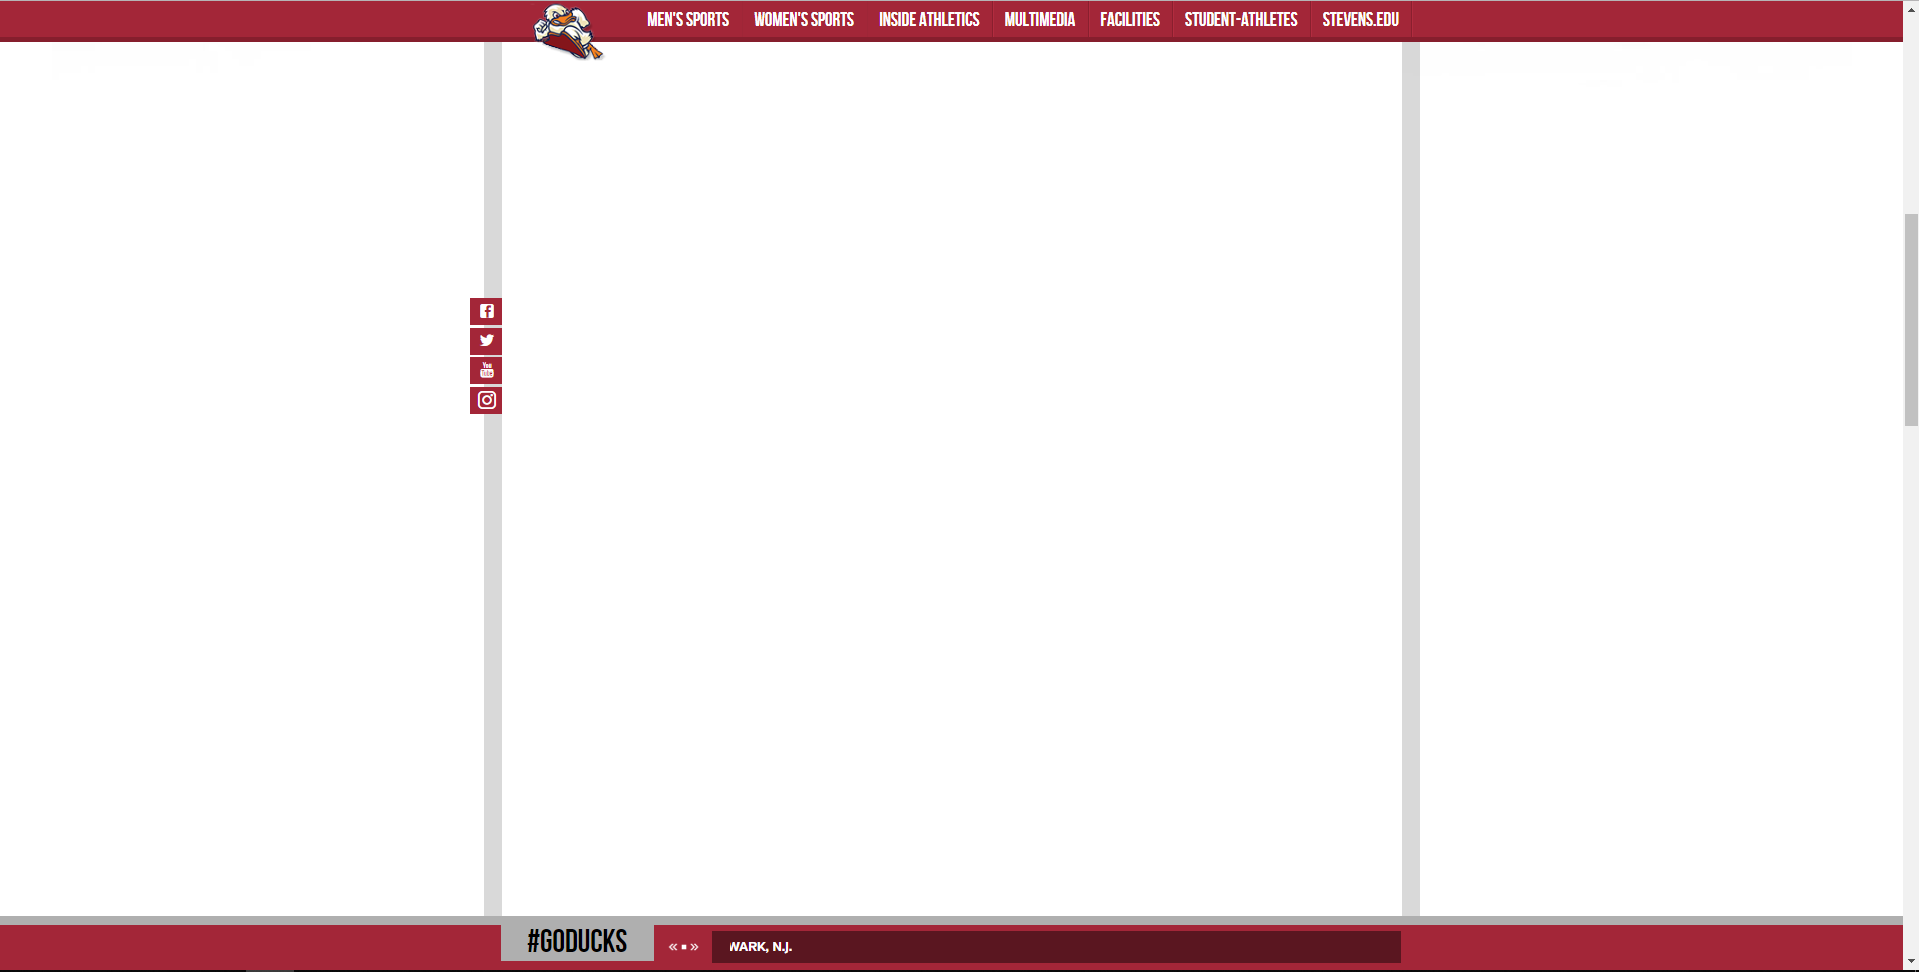
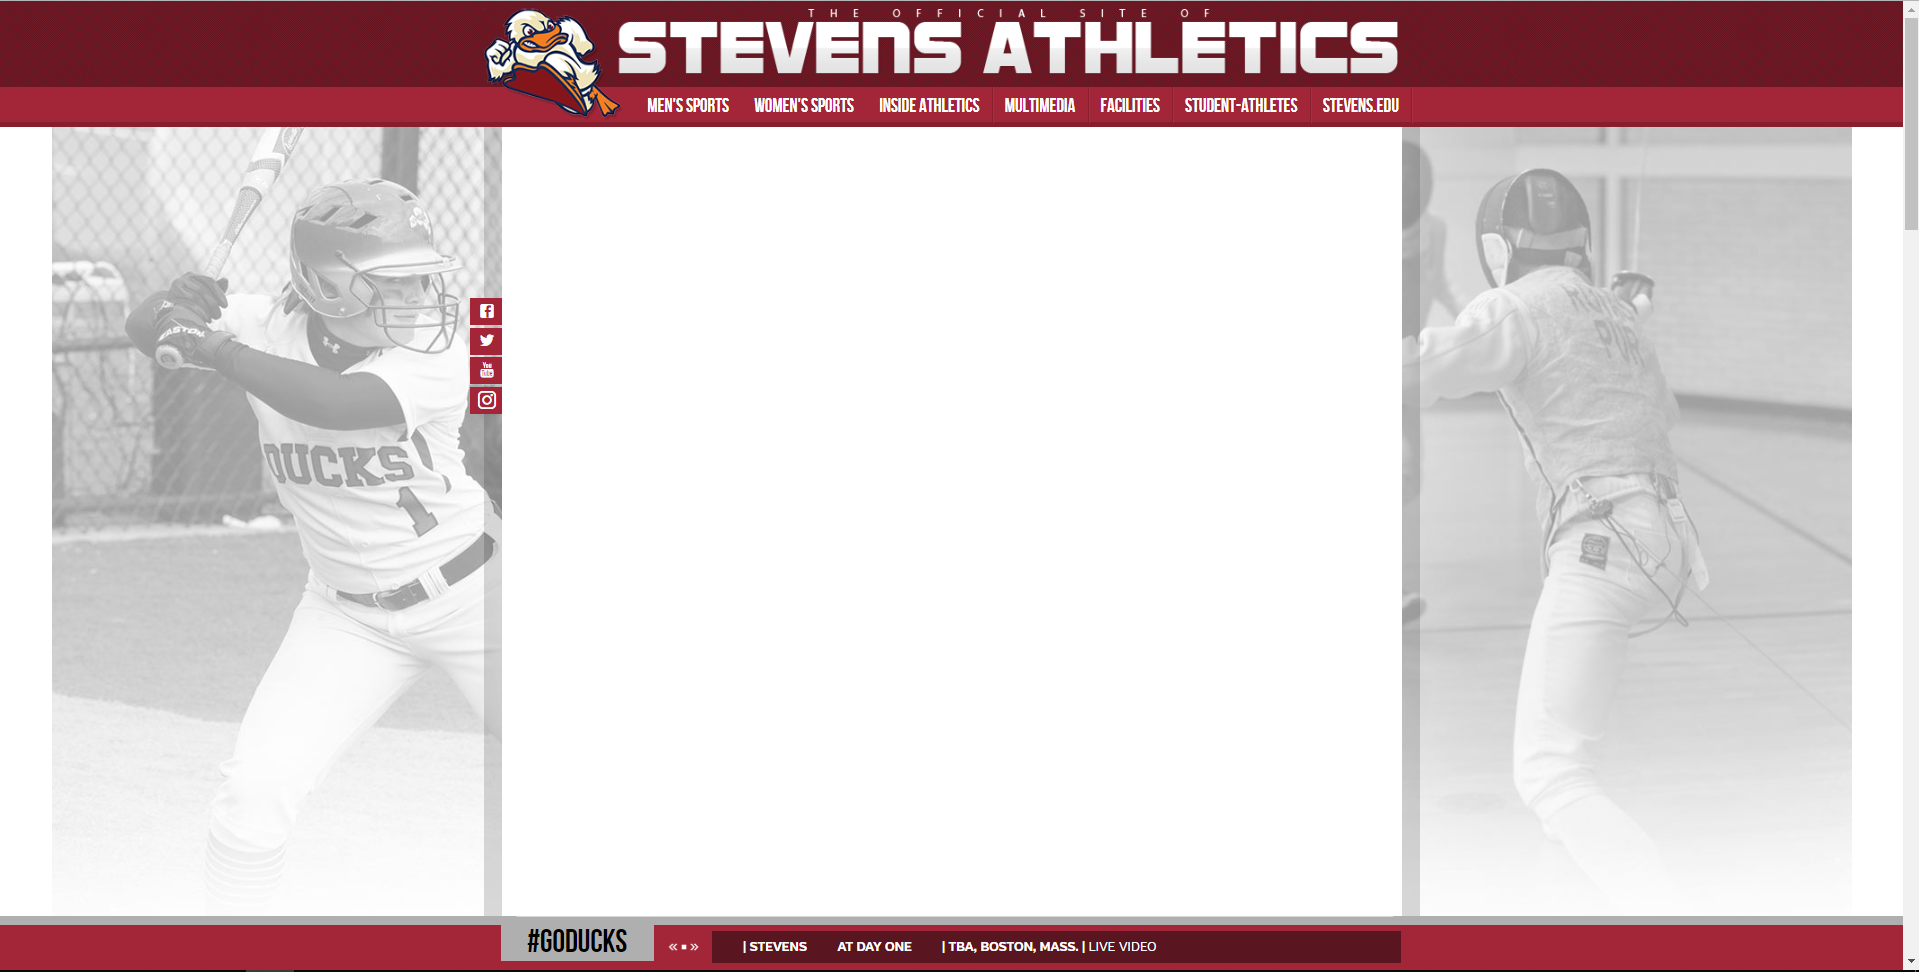
Remove background template and revised image containers

diff --git a/index.html b/index.html
@@ -1,19 +1,59 @@
 <html>
 <head>
     <link rel="stylesheet" media="screen" href="https://fontlibrary.org/face/bebasneueregular" type="text/css"/>
-    <link rel="stylesheet" type="text/css" href="main.css"> 
+    <link rel="stylesheet" type="text/css" href="main.css">
+    <link href="https://fonts.googleapis.com/css?family=Oswald" rel="stylesheet">
+    <link href="https://fonts.googleapis.com/css?family=Lato" rel="stylesheet"> 
+    <link rel="stylesheet" type="text/css" href="slick/slick-theme.css"/>
 </head>
 <body>
 <div class="body-container">
+    
+
+    <div class="header-container"><h1>Working with Stevens Athletics</h1></div>
+    
+    <p>Stevens University Students have the opportunity to work in Athletics through Federal Work Study Employment</p>
+    
+    <p>The overall mission of the Stevens Institute of Technology Department of Physical Education, Athletics and Recreation is to enhance the healthy lifestyles of all members of the Stevens community through providing programs, facilities and training that promote physical fitness, competition and life-skill development.  The Athletics Event Staff aid the Athletics Department in setting up, breaking down, and game day duties for each of the hosted games played at Stevens Institute of Technology.</p>
+
+    <p>As a member of the staff, each worker helps ensure the quality, fairness, and accessibility of sporting events hosted at Stevens Institute of Technology is at the highest standard. Our flexible scheduling is ideal for students looking  for  ways  to  receive  their  Financial  Work  Study  hours.</p>
+
+    <p>The Stevens Athletic Department offers a number of positions each academic semester allowing students to get involved with the Athletics around campus. Specific sports knowledge is optional but an interest is recommended for the positions.</p>
+
+    <p class="center-text"><b>Important:</b> The Student Employment Office (SEO) is designed to assist faculty, community and all University departments with On Campus Part Time employment for Undergraduate, Graduate or Professional students and some paperwork will be necessary before starting.
+
+    
+    <a class="important-paragraph" href="https://www.stevens.edu/directory/student-employment-office" target="_blank">Contact the Student Employment Office</a></p>
+
+    <div class="image-container">
+    <img id="main-image" src="test-image.jpg">
+    <img id="main-image" src="test-image.jpg">
+    </div>
 
 
+    <p class="center-text"><b>Please  note  that  workers  are expected to sign up for open positions each week and be willing to commit regular hours to the job.</b></p>
 
+    <div class="center-text" style="padding:20px 0px">
+    <a id="learnmore" href="https://www.stevens.edu/admissions/tuition-financial-aid/undergraduate-scholarships-aid/federal-programs/work-study" target="_blank"><button class="button" >Learn More</button></a>
+    <a id="applynow" href="https://stevens.wd5.myworkdayjobs.com/en-US/External/job/Hoboken-NJ---Main-Campus/FWS-Athletics-Event-Staff_RQ21677" target="_blank"><button class="button" >Apply Now</button></a>
+    </div>
 
-
-
-
-
-
+    <p>Listed below are the student assistant positions the DeSales University Athletic Department looks to fill through Federal Work Study/Institutional Employment each year. If you are interested in working for the Bulldogs in any of these capacities, please contact the staff member listed under each job description for more information specific to your position of interest.</p>
 </div>
+
+
+
+
+<script type="text/javascript" src="//code.jquery.com/jquery-1.11.0.min.js"></script>
+<script type="text/javascript" src="//code.jquery.com/jquery-migrate-1.2.1.min.js"></script>
+<script type="text/javascript" src="slick/slick.min.js"></script>
+
+<script>
+        $(document).ready(function(){
+            $('.single-item').slick();
+        });
+    </script>
+
 </body>
+
 </html>

diff --git a/main.css b/main.css
@@ -23,6 +23,9 @@ Stevens Colors:
     Darker Red: #5a1620 (90,22,32)
     Stevens Gray: #afafaf (176,176,176)
     
+Workday Link: https://stevens.wd5.myworkdayjobs.com/en-US/External/job/Hoboken-NJ---Main-Campus/FWS-Athletics-Event-Staff_RQ21677
+Federal Work Study Information Link: https://www.stevens.edu/admissions/tuition-financial-aid/undergraduate-scholarships-aid/federal-programs/work-study
+
 */
 
 * {
@@ -31,13 +34,83 @@ Stevens Colors:
 }
 
 body {
-    width: 100%;
+    width: 80%;
     height: 100%;
-    background-image: url("TemplatePage.png");
+    margin:auto;
 }
 
-.body-container {
-    margin: 125px auto;
-    width: 900px;
-    height: 90%;
+h1 {
+    text-transform: uppercase;
+    font-family: 'BebasNeueRegular';
+    font-size: 40px;
+    font-weight: normal;
+    line-height: 33px; 
 }
+
+.header-container {
+    color: #a32638;
+    text-align:center;
+    padding: 20px 10px 30px;
+    width: 50%;
+    margin: auto;
+}
+
+p {
+    padding: 5px 0px;
+    font: 14px/20px arial, sans-serif;
+    color: rgb(0,0,0);
+}
+
+.center-text {
+    text-align:center;
+}
+
+.button {
+    background-color:#a32638;
+    padding: 10px 50px;
+    color: #fff;
+    border:none;
+    font-family: 'Oswald', sans-serif;
+    font-size: 15px;
+    transition: background-color 0.5s ease;
+}
+
+.button-container {
+    padding: 0px;
+}
+
+a:hover .button {
+    background-color: #5a1620;
+  }
+
+.important-paragraph {
+    color: #5a1620;
+    text-decoration: underline;
+}
+
+.image-container {
+    height: 350px;
+    padding: 20px;
+    text-align:center;
+}
+
+#main-image {
+    background-color: #5a1620;
+    height: 100%;
+    display:inline-block;
+    margin:auto;
+    transition: opacity 0.5s ease;
+}
+
+#main-image:hover {
+    opacity:0.9;
+}
+
+#learnmore {
+    margin-right: 50px;
+}
+#applynow {
+    margin-left: 50px;
+}
+
+    
